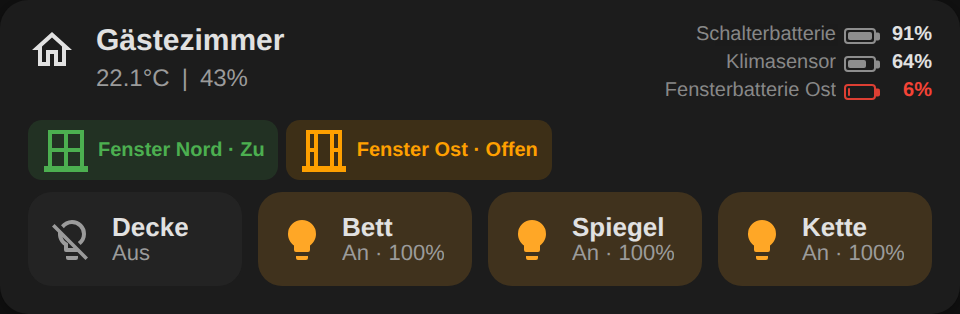
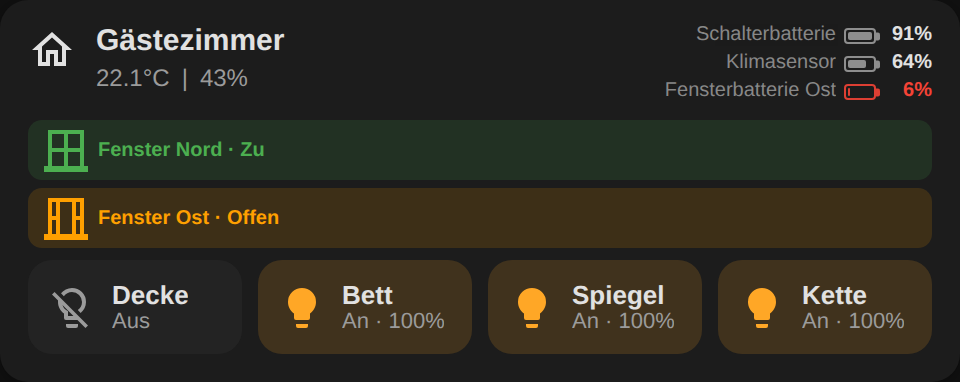
Replace ha-textfield with native inputs; stack windows vertically
Real-world screenshots showed the appearance section's color pickers
rendering with no visible label or text field at all - only the raw
color swatch showed up, with large blank gaps where the label/textfield
should have been. Root cause: ha-textfield's internal outline/notch
layout can fail to paint when created via a raw innerHTML string inside
a collapsible/flex section (as this editor does) - the element still
occupies its layout space but never becomes visible, even though its
value is set correctly underneath. This affected every free-text field
in the editor, not just colors: room name, window/battery labels,
button name, battery threshold, and the navigate/service action
fields.

Replaced all of them with plain <input>/<textarea> elements plus an
explicit <label> above - no complex component lifecycle, so they
always render. Entity/icon pickers are untouched since they still need
HA's real search/autocomplete behavior.

Also: windows are now stacked one per row (full width) instead of
wrapping side by side, per feedback that side-by-side was the wrong
direction - each row is still compact so 2 windows + several battery
gauges don't add much height.

Bumped to 1.0.2, regenerated preview.png to match.

diff --git a/ha-simcard.js b/ha-simcard.js
@@ -1,4 +1,4 @@
-const VERSION = "1.0.1";
+const VERSION = "1.0.2";
 const LOG_FLAG = `customCards_HaSimCard_Logged_${VERSION}`;
 
 if (!window[LOG_FLAG]) {
@@ -258,7 +258,7 @@ class HaSimCard extends HTMLElement {
         .stat-value { min-width: 24px; text-align: right; font-weight: 700; color: var(--val-color, var(--primary-text-color)); font-variant-numeric: tabular-nums; }
         .body { overflow: hidden; transition: max-height 0.3s ease, opacity 0.2s ease; max-height: 600px; opacity: 1; }
         .body.collapsed { max-height: 0 !important; opacity: 0; }
-        .windows { display: flex; flex-wrap: wrap; gap: 4px; padding: 0 14px 6px; }
+        .windows { display: flex; flex-direction: column; gap: 4px; padding: 0 14px 6px; }
         .win-chip { display: flex; align-items: center; gap: 4px; padding: 3px 7px; border-radius: 7px; font-size: 10px; font-weight: 600; cursor: pointer; background: var(--chip-bg); color: var(--chip-color); }
         .win-chip ha-icon { --mdc-icon-size: 12px; color: var(--chip-color); }
         .controls { display: flex; flex-wrap: wrap; gap: 8px; padding: 0 14px 14px; }
@@ -498,6 +498,23 @@ const ACTION_OPTIONS = [
 ];
 
 /**
+ * Labeled plain <input>, used for every free-text field in the editor (name, labels,
+ * thresholds, ...). Deliberately NOT ha-textfield: that component's internal outline/notch
+ * layout can fail to paint when it's created via a raw innerHTML string inside a
+ * collapsible/flex section like this editor's - the field silently renders blank while still
+ * taking up its layout space. A plain input always renders and needs no such lifecycle.
+ */
+function textFieldHTML(cls, label, value, opts = {}) {
+  const { type = "text", extraStyle = "" } = opts;
+  return `
+    <div class="tf" style="${extraStyle}">
+      <label class="native-label">${escAttr(label)}</label>
+      <input type="${escAttr(type)}" class="native-text ${cls}" value="${escAttr(value)}">
+    </div>
+  `;
+}
+
+/**
  * Renders an action-type <select> plus its conditional extra fields (navigation path /
  * service+data), all present in the static markup and toggled via CSS display - so nothing
  * needs to be created dynamically while the editor bundle may still be lazy-loading.
@@ -509,9 +526,18 @@ function actionFieldHTML(h, cls, labelText, actionCfg) {
     <div class="action-field ${cls}">
       <label class="native-label">${escAttr(labelText)}</label>
       <select class="native-select act-type">${opts}</select>
-      <ha-textfield class="act-nav" style="width:100%;margin-top:4px;display:${act === "navigate" ? "block" : "none"}" label="${escAttr(getTranslation(h, "nav_path"))}" value="${escAttr(actionCfg?.navigation_path)}"></ha-textfield>
-      <ha-textfield class="act-svc" style="width:100%;margin-top:4px;display:${act === "call-service" ? "block" : "none"}" label="${escAttr(getTranslation(h, "service"))}" value="${escAttr(actionCfg?.service)}"></ha-textfield>
-      <ha-textfield class="act-svcdata" multiline rows="2" style="width:100%;margin-top:4px;display:${act === "call-service" ? "block" : "none"}" label="${escAttr(getTranslation(h, "service_data"))}" value="${escAttr(actionCfg?.service_data ? JSON.stringify(actionCfg.service_data) : "")}"></ha-textfield>
+      <div class="tf act-nav-wrap" style="display:${act === "navigate" ? "block" : "none"}">
+        <label class="native-label">${escAttr(getTranslation(h, "nav_path"))}</label>
+        <input type="text" class="native-text act-nav" value="${escAttr(actionCfg?.navigation_path)}">
+      </div>
+      <div class="tf act-svc-wrap" style="display:${act === "call-service" ? "block" : "none"}">
+        <label class="native-label">${escAttr(getTranslation(h, "service"))}</label>
+        <input type="text" class="native-text act-svc" value="${escAttr(actionCfg?.service)}">
+      </div>
+      <div class="tf act-svcdata-wrap" style="display:${act === "call-service" ? "block" : "none"}">
+        <label class="native-label">${escAttr(getTranslation(h, "service_data"))}</label>
+        <textarea class="native-text act-svcdata" rows="2">${escAttr(actionCfg?.service_data ? JSON.stringify(actionCfg.service_data) : "")}</textarea>
+      </div>
     </div>
   `;
 }
@@ -574,15 +600,18 @@ class HaSimCardEditor extends HTMLElement {
     const field = root.querySelector(`.action-field.${cls}`);
     if (!field) return;
     const sel = field.querySelector(".act-type");
+    const navWrap = field.querySelector(".act-nav-wrap");
+    const svcWrap = field.querySelector(".act-svc-wrap");
+    const dataWrap = field.querySelector(".act-svcdata-wrap");
     const navF = field.querySelector(".act-nav");
     const svcF = field.querySelector(".act-svc");
     const dataF = field.querySelector(".act-svcdata");
     sel.addEventListener("change", (e) => {
       e.stopPropagation();
       const act = e.target.value;
-      if (navF) navF.style.display = act === "navigate" ? "" : "none";
-      if (svcF) svcF.style.display = act === "call-service" ? "" : "none";
-      if (dataF) dataF.style.display = act === "call-service" ? "" : "none";
+      if (navWrap) navWrap.style.display = act === "navigate" ? "block" : "none";
+      if (svcWrap) svcWrap.style.display = act === "call-service" ? "block" : "none";
+      if (dataWrap) dataWrap.style.display = act === "call-service" ? "block" : "none";
       onChange({ action: act });
     });
     if (navF) navF.addEventListener("change", (e) => { e.stopPropagation(); onChange({ action: "navigate", navigation_path: e.target.value }); });
@@ -651,7 +680,7 @@ class HaSimCardEditor extends HTMLElement {
         <label class="native-label">${escAttr(label)}</label>
         <div class="color-row">
           <input type="color" class="color-swatch" value="${parseColorToPickerHex(value || def)}">
-          <ha-textfield class="color-text" placeholder="${escAttr(def)}" value="${escAttr(value)}" style="flex:1;"></ha-textfield>
+          <input type="text" class="native-text color-text" placeholder="${escAttr(def)}" value="${escAttr(value)}">
         </div>
       </div>
     `;
@@ -660,7 +689,7 @@ class HaSimCardEditor extends HTMLElement {
   _generalHTML(h, c) {
     const collapsible = c.collapsible === true;
     return `
-      <ha-textfield class="name-f" label="${escAttr(getTranslation(h, "name"))}" value="${escAttr(c.name)}" style="width:100%;display:block;margin-bottom:8px;"></ha-textfield>
+      ${textFieldHTML("name-f", getTranslation(h, "name"), c.name)}
       <ha-icon-picker class="icon-f" label="${escAttr(getTranslation(h, "icon"))}" value="${escAttr(c.icon)}" style="width:100%;display:block;margin-bottom:8px;"></ha-icon-picker>
       <ha-formfield label="${escAttr(getTranslation(h, "collapsible"))}">
         <ha-switch class="collapsible-f"${collapsible ? " checked" : ""}></ha-switch>
@@ -702,12 +731,12 @@ class HaSimCardEditor extends HTMLElement {
           <button type="button" class="del-btn" data-del>${DELETE_ICON}</button>
         </div>
         <ha-entity-picker class="win-entity" label="${escAttr(getTranslation(h, "window_entity"))}" style="width:100%;display:block;margin-bottom:8px;"></ha-entity-picker>
-        <ha-textfield class="win-label" label="${escAttr(getTranslation(h, "label"))}" value="${escAttr(w.label)}" style="width:100%;display:block;margin-bottom:8px;"></ha-textfield>
+        ${textFieldHTML("win-label", getTranslation(h, "label"), w.label)}
         ${actionFieldHTML(h, "win-tap", getTranslation(h, "tap_action"), w.tap_action)}
         ${actionFieldHTML(h, "win-hold", getTranslation(h, "hold_action"), w.hold_action)}
         <ha-entity-picker class="win-batt-entity" label="${escAttr(getTranslation(h, "battery_entity"))}" style="width:100%;display:block;margin:8px 0;"></ha-entity-picker>
         ${w.battery_entity ? `
-          <ha-textfield class="win-batt-label" label="${escAttr(getTranslation(h, "battery_label"))}" value="${escAttr(w.battery_label)}" style="width:100%;display:block;margin-bottom:8px;"></ha-textfield>
+          ${textFieldHTML("win-batt-label", getTranslation(h, "battery_label"), w.battery_label)}
           ${actionFieldHTML(h, "win-batt-tap", getTranslation(h, "tap_action"), w.battery_tap_action)}
           ${actionFieldHTML(h, "win-batt-hold", getTranslation(h, "hold_action"), w.battery_hold_action)}
         ` : ""}
@@ -772,19 +801,19 @@ class HaSimCardEditor extends HTMLElement {
     return `
       <ha-entity-picker class="cl-temp-entity" label="${escAttr(getTranslation(h, "temperature_entity"))}" style="width:100%;display:block;margin-bottom:8px;"></ha-entity-picker>
       ${cl.temperature_entity ? `
-        <ha-textfield class="cl-temp-label" label="${escAttr(getTranslation(h, "label"))}" value="${escAttr(cl.temperature_label)}" style="width:100%;display:block;margin-bottom:8px;"></ha-textfield>
+        ${textFieldHTML("cl-temp-label", getTranslation(h, "label"), cl.temperature_label)}
         ${actionFieldHTML(h, "cl-temp-tap", getTranslation(h, "tap_action"), cl.temperature_tap_action)}
         ${actionFieldHTML(h, "cl-temp-hold", getTranslation(h, "hold_action"), cl.temperature_hold_action)}
       ` : ""}
       <ha-entity-picker class="cl-humid-entity" label="${escAttr(getTranslation(h, "humidity_entity"))}" style="width:100%;display:block;margin:8px 0;"></ha-entity-picker>
       ${cl.humidity_entity ? `
-        <ha-textfield class="cl-humid-label" label="${escAttr(getTranslation(h, "label"))}" value="${escAttr(cl.humidity_label)}" style="width:100%;display:block;margin-bottom:8px;"></ha-textfield>
+        ${textFieldHTML("cl-humid-label", getTranslation(h, "label"), cl.humidity_label)}
         ${actionFieldHTML(h, "cl-humid-tap", getTranslation(h, "tap_action"), cl.humidity_tap_action)}
         ${actionFieldHTML(h, "cl-humid-hold", getTranslation(h, "hold_action"), cl.humidity_hold_action)}
       ` : ""}
       <ha-entity-picker class="cl-batt-entity" label="${escAttr(getTranslation(h, "battery_entity"))}" style="width:100%;display:block;margin:8px 0;"></ha-entity-picker>
       ${cl.battery_entity ? `
-        <ha-textfield class="cl-batt-label" label="${escAttr(getTranslation(h, "battery_label"))}" value="${escAttr(cl.battery_label)}" style="width:100%;display:block;margin-bottom:8px;"></ha-textfield>
+        ${textFieldHTML("cl-batt-label", getTranslation(h, "battery_label"), cl.battery_label)}
         ${actionFieldHTML(h, "cl-batt-tap", getTranslation(h, "tap_action"), cl.battery_tap_action)}
         ${actionFieldHTML(h, "cl-batt-hold", getTranslation(h, "hold_action"), cl.battery_hold_action)}
       ` : ""}
@@ -819,7 +848,7 @@ class HaSimCardEditor extends HTMLElement {
     return `
       <ha-entity-picker class="sb-entity" label="${escAttr(getTranslation(h, "switch_battery_entity"))}" style="width:100%;display:block;margin-bottom:8px;"></ha-entity-picker>
       ${sb.entity ? `
-        <ha-textfield class="sb-label" label="${escAttr(getTranslation(h, "label"))}" value="${escAttr(sb.label)}" style="width:100%;display:block;margin-bottom:8px;"></ha-textfield>
+        ${textFieldHTML("sb-label", getTranslation(h, "label"), sb.label)}
         ${actionFieldHTML(h, "sb-tap", getTranslation(h, "tap_action"), sb.tap_action)}
         ${actionFieldHTML(h, "sb-hold", getTranslation(h, "hold_action"), sb.hold_action)}
       ` : ""}
@@ -845,7 +874,7 @@ class HaSimCardEditor extends HTMLElement {
           <button type="button" class="del-btn" data-del>${DELETE_ICON}</button>
         </div>
         <ha-entity-picker class="ctrl-entity" label="${escAttr(getTranslation(h, "entity"))}" style="width:100%;display:block;margin-bottom:8px;"></ha-entity-picker>
-        <ha-textfield class="ctrl-name" label="${escAttr(getTranslation(h, "name"))}" value="${escAttr(ctrl.name)}" style="width:100%;display:block;margin-bottom:8px;"></ha-textfield>
+        ${textFieldHTML("ctrl-name", getTranslation(h, "name"), ctrl.name)}
         <div class="row2">
           <ha-icon-picker class="ctrl-icon" label="${escAttr(getTranslation(h, "icon"))}" value="${escAttr(ctrl.icon)}"></ha-icon-picker>
           ${this._colorFieldHTML("ctrl-on-color", getTranslation(h, "on_color"), ctrl.on_color, "#ffa726")}
@@ -918,7 +947,7 @@ class HaSimCardEditor extends HTMLElement {
     return `
       ${this._colorFieldHTML("app-open-color", getTranslation(h, "window_open_color"), c.window_open_color, "#FFA000")}
       ${this._colorFieldHTML("app-closed-color", getTranslation(h, "window_closed_color"), c.window_closed_color, "#4CAF50")}
-      <ha-textfield class="app-threshold" type="number" label="${escAttr(getTranslation(h, "battery_warning_threshold"))}" value="${escAttr(c.battery_warning_threshold ?? "10")}" style="width:100%;display:block;margin:8px 0;"></ha-textfield>
+      ${textFieldHTML("app-threshold", getTranslation(h, "battery_warning_threshold"), c.battery_warning_threshold ?? "10", { type: "number" })}
       ${this._colorFieldHTML("app-warn-color", getTranslation(h, "battery_warning_color"), c.battery_warning_color, "#f44336")}
     `;
   }
@@ -978,7 +1007,10 @@ class HaSimCardEditor extends HTMLElement {
         .row2 > .color-field { flex: 1; min-width: 0; margin: 0; }
         .hint { font-size: 11px; opacity: 0.6; }
         .native-label { display: block; font-size: 12px; font-weight: 600; opacity: 0.75; margin-bottom: 4px; }
-        .native-select { width: 100%; box-sizing: border-box; padding: 10px 12px; font: inherit; font-size: 14px; border-radius: 4px; border: 1px solid var(--divider-color); background: var(--card-background-color, var(--primary-background-color)); color: var(--primary-text-color); }
+        .native-select, .native-text { display: block; width: 100%; box-sizing: border-box; padding: 10px 12px; font: inherit; font-size: 14px; border-radius: 4px; border: 1px solid var(--divider-color); background: var(--card-background-color, var(--primary-background-color)); color: var(--primary-text-color); }
+        .native-text:focus { outline: none; border-color: var(--primary-color, #ff9800); }
+        textarea.native-text { resize: vertical; font-family: inherit; }
+        .tf { margin-bottom: 8px; }
         .action-field { border-top: 1px dashed var(--divider-color); padding-top: 8px; margin-top: 2px; }
         .color-field { margin-bottom: 8px; }
         .color-row { display: flex; gap: 8px; align-items: center; }

diff --git a/CHANGELOG.md b/CHANGELOG.md
@@ -2,6 +2,19 @@
 
 All notable changes to HA SimCard are documented here.
 
+## [1.0.2]
+
+* **Fix**: every free-text field in the editor (room name, window/battery labels, button
+  name, color hex value, battery threshold, navigation path / service fields) used
+  `ha-textfield`, whose internal outline/notch layout can fail to paint when the element is
+  created via a raw innerHTML string inside a collapsible/flex section — the field silently
+  stayed blank while still taking up its layout space, even though the value underneath was
+  set correctly. All of these are now plain, always-rendering `<input>`/`<textarea>` elements
+  with an explicit label above them.
+* **Card**: windows are now stacked one per row (full width) instead of wrapping side by
+  side, matching the compact-list look; each row stays small so 2 windows plus several
+  battery gauges don't add much height.
+
 ## [1.0.1]
 
 * **Fix**: editing a button/switch (`controls`) entry — name, entity, icon, color, actions —
